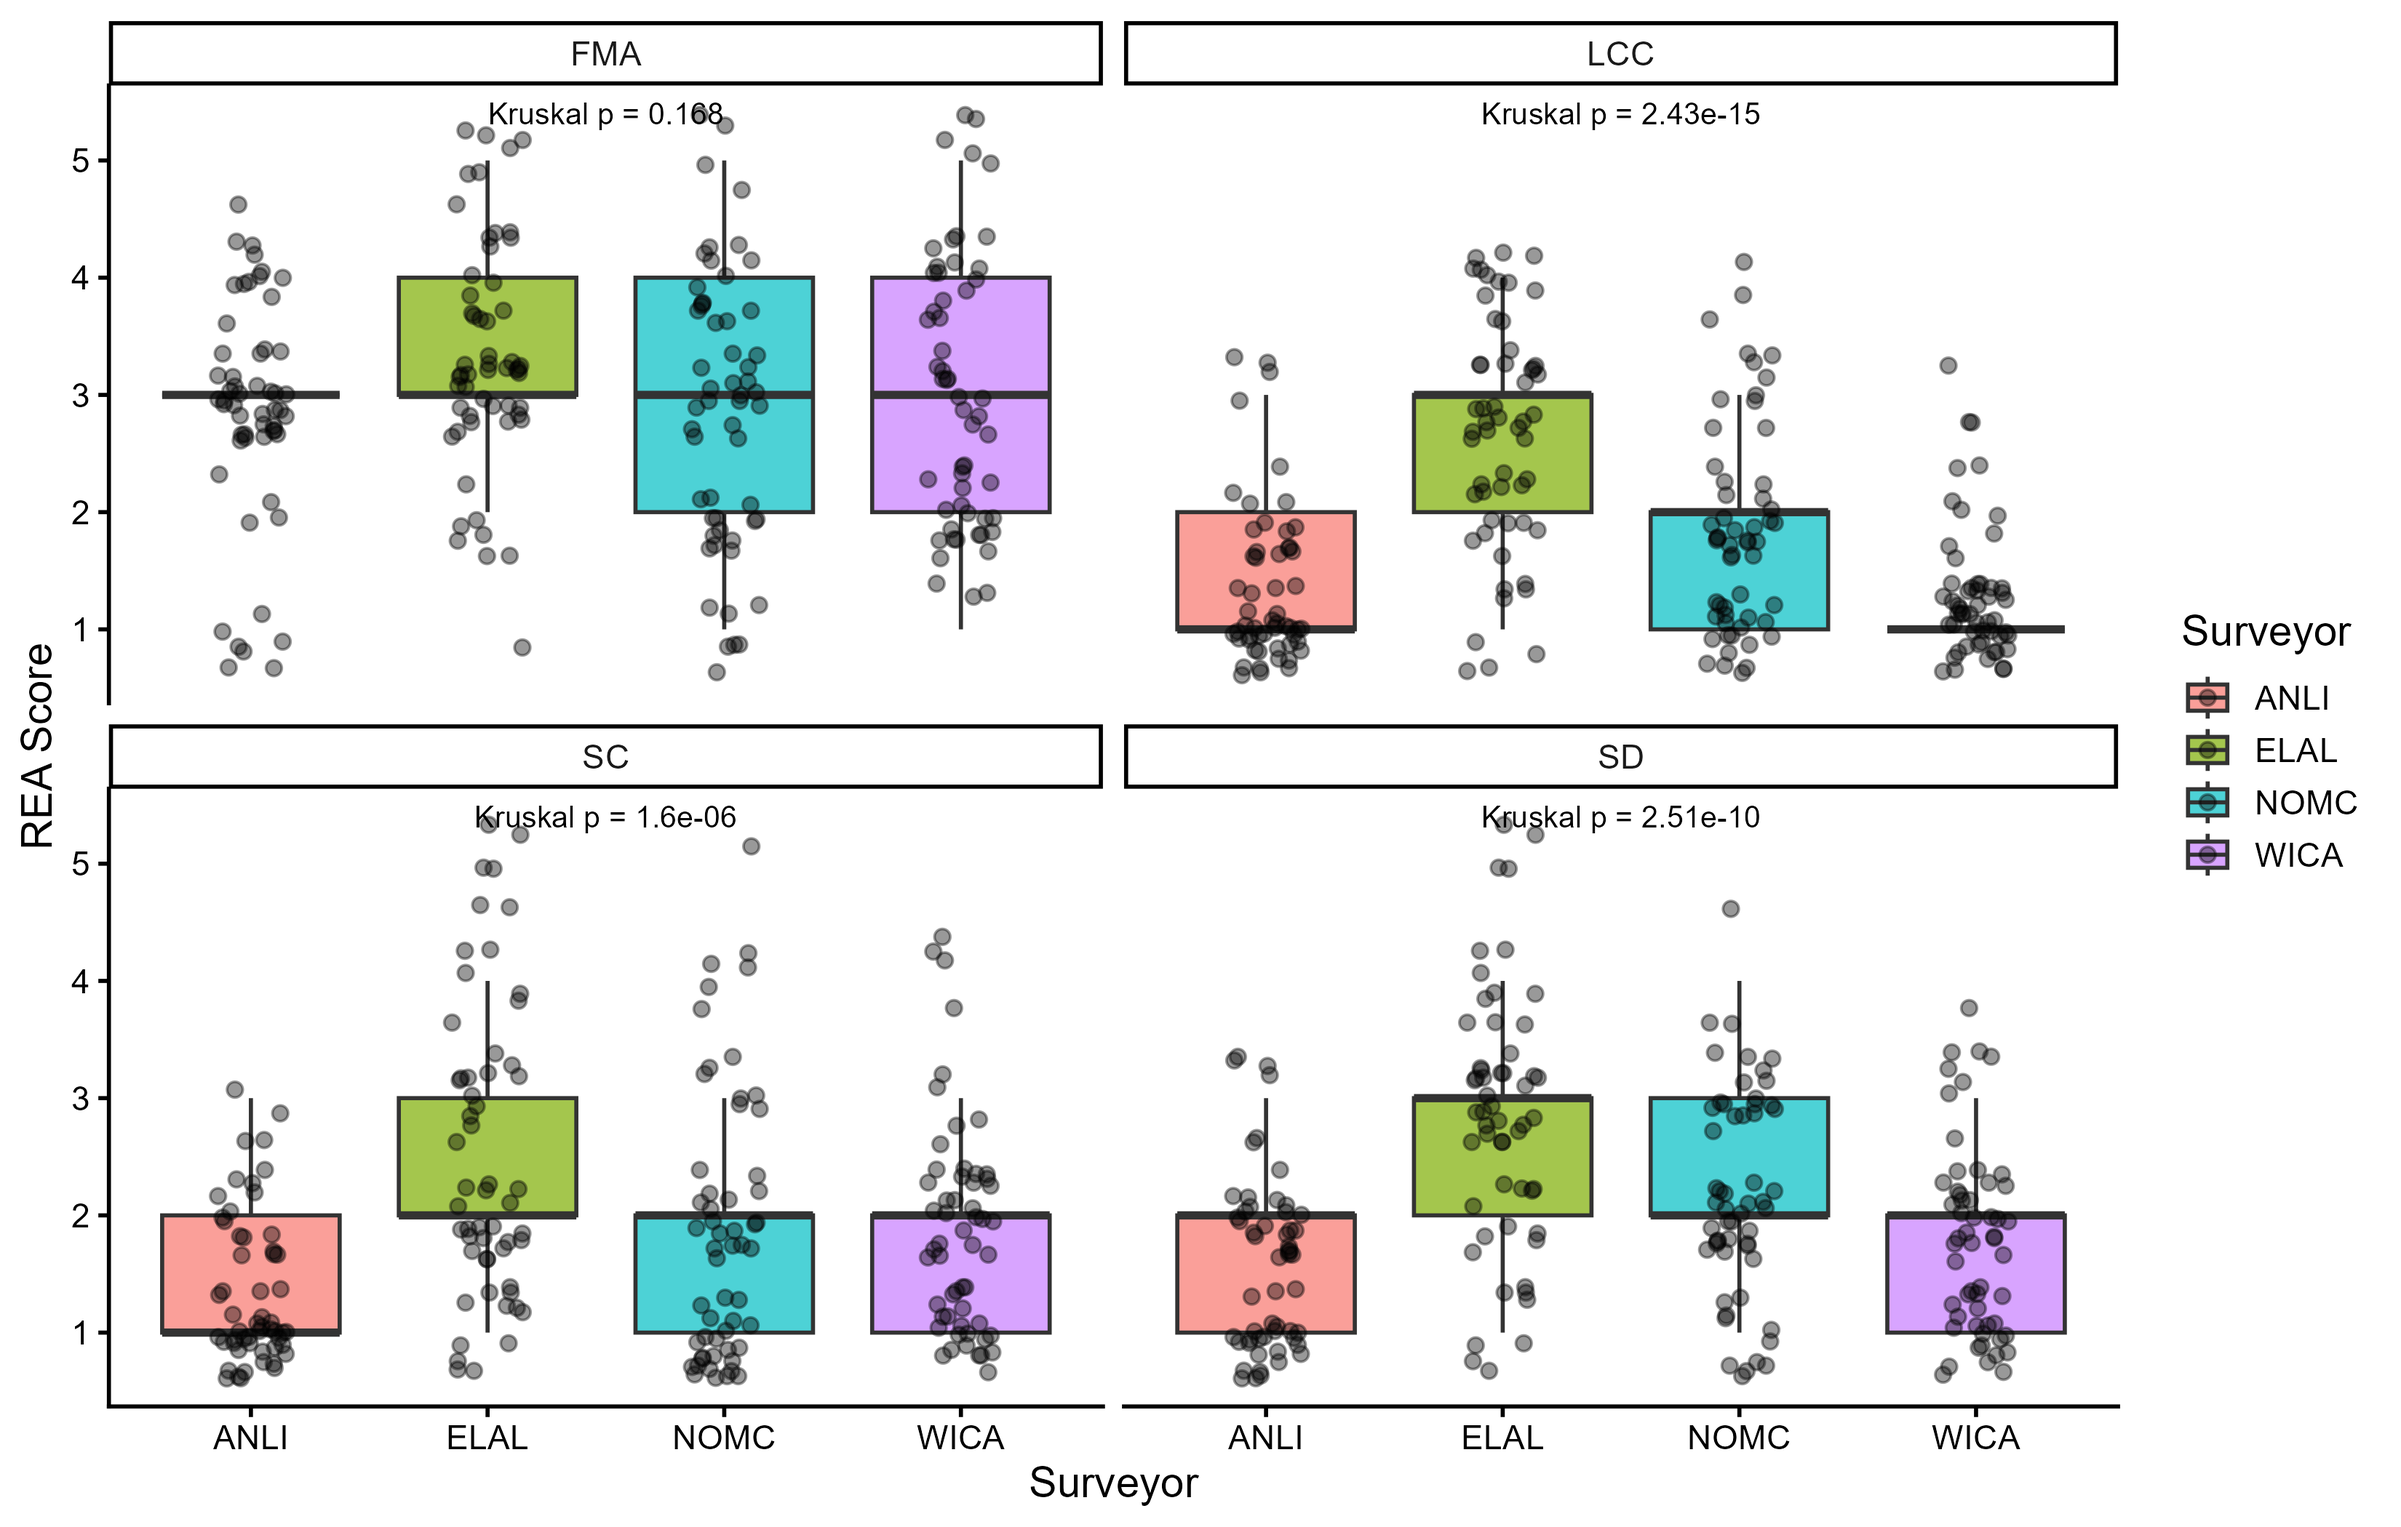
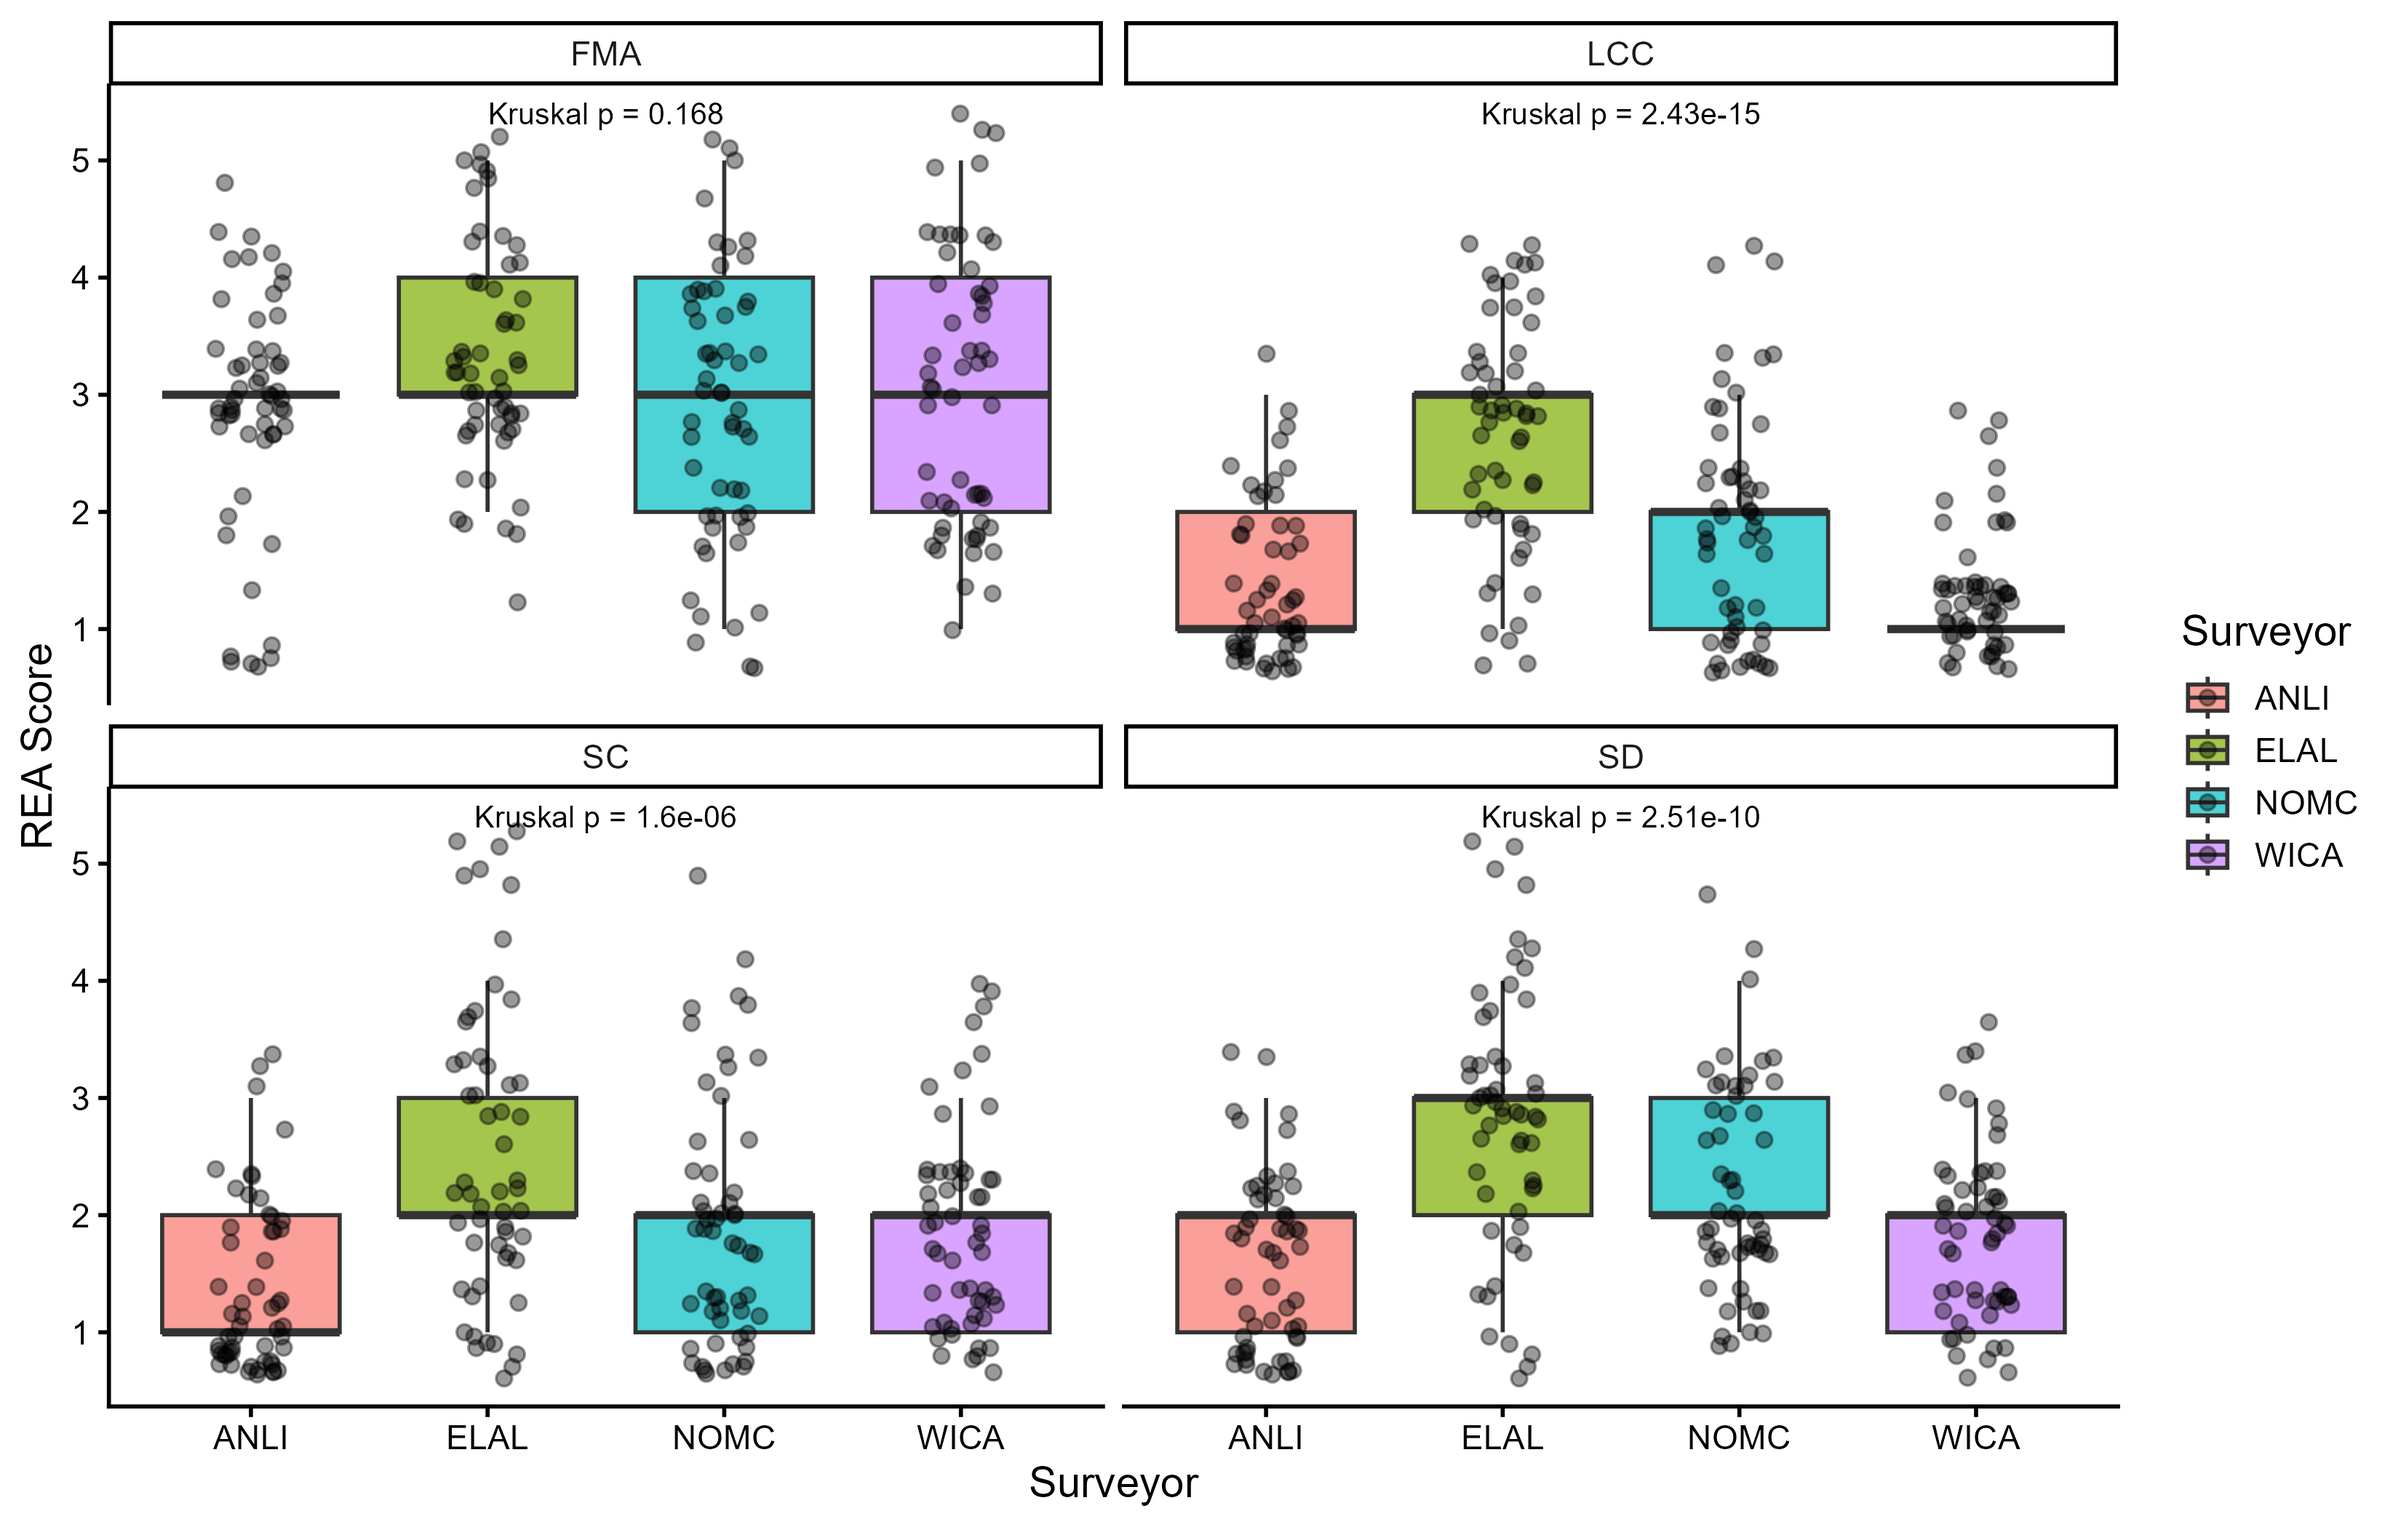
Update outputs

diff --git a/summary_table.html b/summary_table.html
@@ -7,23 +7,23 @@
 
 </head>
 <body>
-<div id="dxwcdgadsl" style="padding-left:0px;padding-right:0px;padding-top:10px;padding-bottom:10px;overflow-x:auto;overflow-y:auto;width:auto;height:auto;">
-  <style>#dxwcdgadsl table {
+<div id="hoerbweijj" style="padding-left:0px;padding-right:0px;padding-top:10px;padding-bottom:10px;overflow-x:auto;overflow-y:auto;width:auto;height:auto;">
+  <style>#hoerbweijj table {
   font-family: system-ui, 'Segoe UI', Roboto, Helvetica, Arial, sans-serif, 'Apple Color Emoji', 'Segoe UI Emoji', 'Segoe UI Symbol', 'Noto Color Emoji';
   -webkit-font-smoothing: antialiased;
   -moz-osx-font-smoothing: grayscale;
 }
 
-#dxwcdgadsl thead, #dxwcdgadsl tbody, #dxwcdgadsl tfoot, #dxwcdgadsl tr, #dxwcdgadsl td, #dxwcdgadsl th {
+#hoerbweijj thead, #hoerbweijj tbody, #hoerbweijj tfoot, #hoerbweijj tr, #hoerbweijj td, #hoerbweijj th {
   border-style: none;
 }
 
-#dxwcdgadsl p {
+#hoerbweijj p {
   margin: 0;
   padding: 0;
 }
 
-#dxwcdgadsl .gt_table {
+#hoerbweijj .gt_table {
   display: table;
   border-collapse: collapse;
   line-height: normal;
@@ -49,12 +49,12 @@
   border-left-color: #D3D3D3;
 }
 
-#dxwcdgadsl .gt_caption {
+#hoerbweijj .gt_caption {
   padding-top: 4px;
   padding-bottom: 4px;
 }
 
-#dxwcdgadsl .gt_title {
+#hoerbweijj .gt_title {
   color: #333333;
   font-size: 125%;
   font-weight: initial;
@@ -66,7 +66,7 @@
   border-bottom-width: 0;
 }
 
-#dxwcdgadsl .gt_subtitle {
+#hoerbweijj .gt_subtitle {
   color: #333333;
   font-size: 85%;
   font-weight: initial;
@@ -78,7 +78,7 @@
   border-top-width: 0;
 }
 
-#dxwcdgadsl .gt_heading {
+#hoerbweijj .gt_heading {
   background-color: #F5F5F5;
   text-align: center;
   border-bottom-color: #F5F5F5;
@@ -90,13 +90,13 @@
   border-right-color: #D3D3D3;
 }
 
-#dxwcdgadsl .gt_bottom_border {
+#hoerbweijj .gt_bottom_border {
   border-bottom-style: solid;
   border-bottom-width: 2px;
   border-bottom-color: #D3D3D3;
 }
 
-#dxwcdgadsl .gt_col_headings {
+#hoerbweijj .gt_col_headings {
   border-top-style: solid;
   border-top-width: 2px;
   border-top-color: #D3D3D3;
@@ -111,7 +111,7 @@
   border-right-color: #D3D3D3;
 }
 
-#dxwcdgadsl .gt_col_heading {
+#hoerbweijj .gt_col_heading {
   color: #333333;
   background-color: #F5F5F5;
   font-size: 100%;
@@ -131,7 +131,7 @@
   overflow-x: hidden;
 }
 
-#dxwcdgadsl .gt_column_spanner_outer {
+#hoerbweijj .gt_column_spanner_outer {
   color: #333333;
   background-color: #F5F5F5;
   font-size: 100%;
@@ -143,15 +143,15 @@
   padding-right: 4px;
 }
 
-#dxwcdgadsl .gt_column_spanner_outer:first-child {
+#hoerbweijj .gt_column_spanner_outer:first-child {
   padding-left: 0;
 }
 
-#dxwcdgadsl .gt_column_spanner_outer:last-child {
+#hoerbweijj .gt_column_spanner_outer:last-child {
   padding-right: 0;
 }
 
-#dxwcdgadsl .gt_column_spanner {
+#hoerbweijj .gt_column_spanner {
   border-bottom-style: solid;
   border-bottom-width: 2px;
   border-bottom-color: #D3D3D3;
@@ -163,11 +163,11 @@
   width: 100%;
 }
 
-#dxwcdgadsl .gt_spanner_row {
+#hoerbweijj .gt_spanner_row {
   border-bottom-style: hidden;
 }
 
-#dxwcdgadsl .gt_group_heading {
+#hoerbweijj .gt_group_heading {
   padding-top: 8px;
   padding-bottom: 8px;
   padding-left: 5px;
@@ -193,7 +193,7 @@
   text-align: left;
 }
 
-#dxwcdgadsl .gt_empty_group_heading {
+#hoerbweijj .gt_empty_group_heading {
   padding: 0.5px;
   color: #333333;
   background-color: #F5F5F5;
@@ -208,15 +208,15 @@
   vertical-align: middle;
 }
 
-#dxwcdgadsl .gt_from_md > :first-child {
+#hoerbweijj .gt_from_md > :first-child {
   margin-top: 0;
 }
 
-#dxwcdgadsl .gt_from_md > :last-child {
+#hoerbweijj .gt_from_md > :last-child {
   margin-bottom: 0;
 }
 
-#dxwcdgadsl .gt_row {
+#hoerbweijj .gt_row {
   padding-top: 8px;
   padding-bottom: 8px;
   padding-left: 5px;
@@ -235,7 +235,7 @@
   overflow-x: hidden;
 }
 
-#dxwcdgadsl .gt_stub {
+#hoerbweijj .gt_stub {
   color: #333333;
   background-color: #F5F5F5;
   font-size: 100%;
@@ -248,7 +248,7 @@
   padding-right: 5px;
 }
 
-#dxwcdgadsl .gt_stub_row_group {
+#hoerbweijj .gt_stub_row_group {
   color: #333333;
   background-color: #F5F5F5;
   font-size: 100%;
@@ -262,15 +262,15 @@
   vertical-align: top;
 }
 
-#dxwcdgadsl .gt_row_group_first td {
+#hoerbweijj .gt_row_group_first td {
   border-top-width: 2px;
 }
 
-#dxwcdgadsl .gt_row_group_first th {
+#hoerbweijj .gt_row_group_first th {
   border-top-width: 2px;
 }
 
-#dxwcdgadsl .gt_summary_row {
+#hoerbweijj .gt_summary_row {
   color: #333333;
   background-color: #F5F5F5;
   text-transform: inherit;
@@ -280,16 +280,16 @@
   padding-right: 5px;
 }
 
-#dxwcdgadsl .gt_first_summary_row {
+#hoerbweijj .gt_first_summary_row {
   border-top-style: solid;
   border-top-color: #D3D3D3;
 }
 
-#dxwcdgadsl .gt_first_summary_row.thick {
+#hoerbweijj .gt_first_summary_row.thick {
   border-top-width: 2px;
 }
 
-#dxwcdgadsl .gt_last_summary_row {
+#hoerbweijj .gt_last_summary_row {
   padding-top: 8px;
   padding-bottom: 8px;
   padding-left: 5px;
@@ -299,7 +299,7 @@
   border-bottom-color: #D3D3D3;
 }
 
-#dxwcdgadsl .gt_grand_summary_row {
+#hoerbweijj .gt_grand_summary_row {
   color: #333333;
   background-color: #F5F5F5;
   text-transform: inherit;
@@ -309,7 +309,7 @@
   padding-right: 5px;
 }
 
-#dxwcdgadsl .gt_first_grand_summary_row {
+#hoerbweijj .gt_first_grand_summary_row {
   padding-top: 8px;
   padding-bottom: 8px;
   padding-left: 5px;
@@ -319,7 +319,7 @@
   border-top-color: #D3D3D3;
 }
 
-#dxwcdgadsl .gt_last_grand_summary_row_top {
+#hoerbweijj .gt_last_grand_summary_row_top {
   padding-top: 8px;
   padding-bottom: 8px;
   padding-left: 5px;
@@ -329,11 +329,11 @@
   border-bottom-color: #D3D3D3;
 }
 
-#dxwcdgadsl .gt_striped {
+#hoerbweijj .gt_striped {
   background-color: rgba(128, 128, 128, 0.05);
 }
 
-#dxwcdgadsl .gt_table_body {
+#hoerbweijj .gt_table_body {
   border-top-style: solid;
   border-top-width: 2px;
   border-top-color: #D3D3D3;
@@ -342,7 +342,7 @@
   border-bottom-color: #D3D3D3;
 }
 
-#dxwcdgadsl .gt_footnotes {
+#hoerbweijj .gt_footnotes {
   color: #333333;
   background-color: #F5F5F5;
   border-bottom-style: none;
@@ -356,7 +356,7 @@
   border-right-color: #D3D3D3;
 }
 
-#dxwcdgadsl .gt_footnote {
+#hoerbweijj .gt_footnote {
   margin: 0px;
   font-size: 90%;
   padding-top: 4px;
@@ -365,7 +365,7 @@
   padding-right: 5px;
 }
 
-#dxwcdgadsl .gt_sourcenotes {
+#hoerbweijj .gt_sourcenotes {
   color: #333333;
   background-color: #F5F5F5;
   border-bottom-style: none;
@@ -379,7 +379,7 @@
   border-right-color: #D3D3D3;
 }
 
-#dxwcdgadsl .gt_sourcenote {
+#hoerbweijj .gt_sourcenote {
   font-size: 90%;
   padding-top: 4px;
   padding-bottom: 4px;
@@ -387,72 +387,72 @@
   padding-right: 5px;
 }
 
-#dxwcdgadsl .gt_left {
+#hoerbweijj .gt_left {
   text-align: left;
 }
 
-#dxwcdgadsl .gt_center {
+#hoerbweijj .gt_center {
   text-align: center;
 }
 
-#dxwcdgadsl .gt_right {
+#hoerbweijj .gt_right {
   text-align: right;
   font-variant-numeric: tabular-nums;
 }
 
-#dxwcdgadsl .gt_font_normal {
+#hoerbweijj .gt_font_normal {
   font-weight: normal;
 }
 
-#dxwcdgadsl .gt_font_bold {
+#hoerbweijj .gt_font_bold {
   font-weight: bold;
 }
 
-#dxwcdgadsl .gt_font_italic {
+#hoerbweijj .gt_font_italic {
   font-style: italic;
 }
 
-#dxwcdgadsl .gt_super {
+#hoerbweijj .gt_super {
   font-size: 65%;
 }
 
-#dxwcdgadsl .gt_footnote_marks {
+#hoerbweijj .gt_footnote_marks {
   font-size: 75%;
   vertical-align: 0.4em;
   position: initial;
 }
 
-#dxwcdgadsl .gt_asterisk {
+#hoerbweijj .gt_asterisk {
   font-size: 100%;
   vertical-align: 0;
 }
 
-#dxwcdgadsl .gt_indent_1 {
+#hoerbweijj .gt_indent_1 {
   text-indent: 5px;
 }
 
-#dxwcdgadsl .gt_indent_2 {
+#hoerbweijj .gt_indent_2 {
   text-indent: 10px;
 }
 
-#dxwcdgadsl .gt_indent_3 {
+#hoerbweijj .gt_indent_3 {
   text-indent: 15px;
 }
 
-#dxwcdgadsl .gt_indent_4 {
+#hoerbweijj .gt_indent_4 {
   text-indent: 20px;
 }
 
-#dxwcdgadsl .gt_indent_5 {
+#hoerbweijj .gt_indent_5 {
   text-indent: 25px;
 }
 
-#dxwcdgadsl .katex-display {
+#hoerbweijj .katex-display {
   display: inline-flex !important;
   margin-bottom: 0.75em !important;
 }
 
-#dxwcdgadsl div.Reactable > div.rt-table > div.rt-thead > div.rt-tr.rt-tr-group-header > div.rt-th-group:after {
+#hoerbweijj div.Reactable > div.rt-table > div.rt-thead > div.rt-tr.rt-tr-group-header > div.rt-th-group:after {
   height: 0px !important;
 }
 </style>
